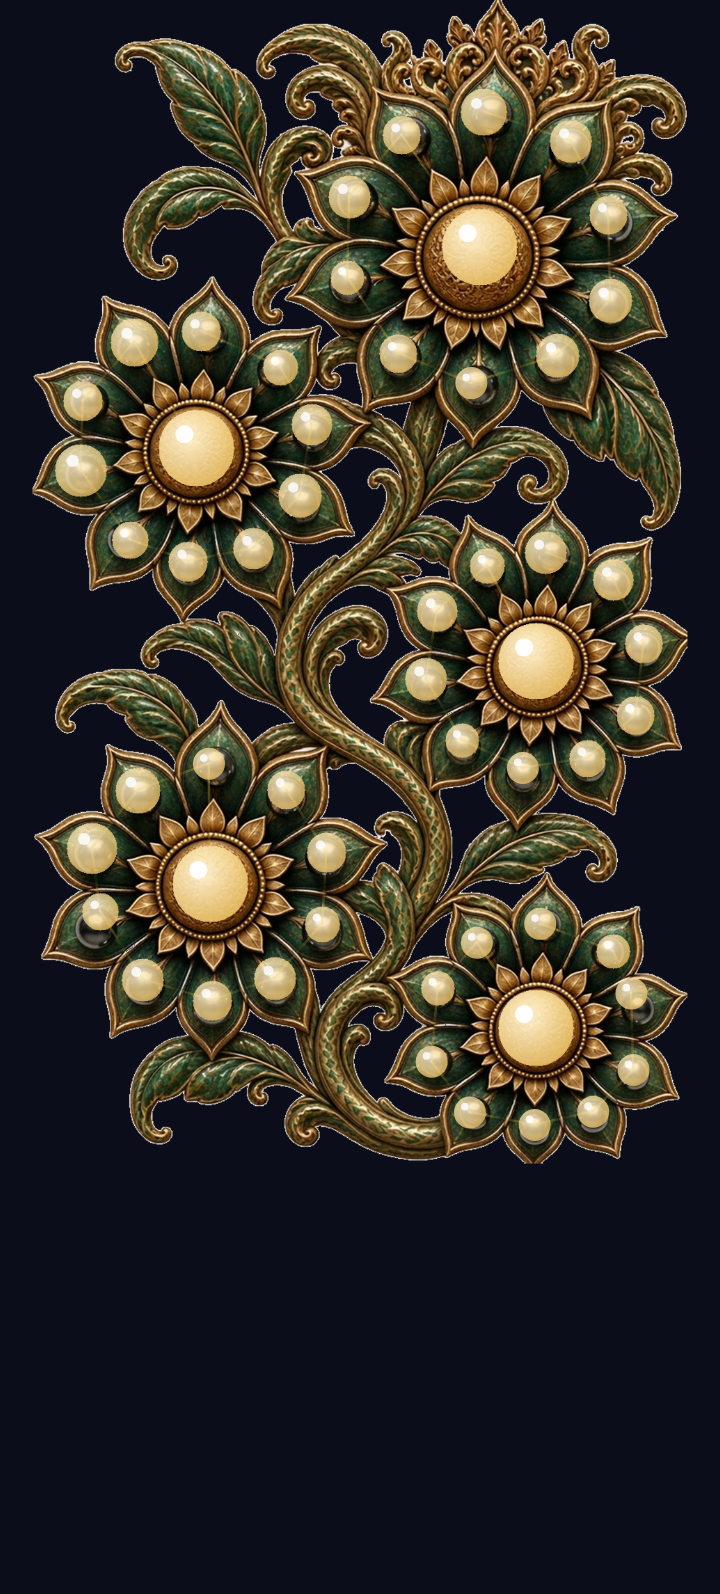
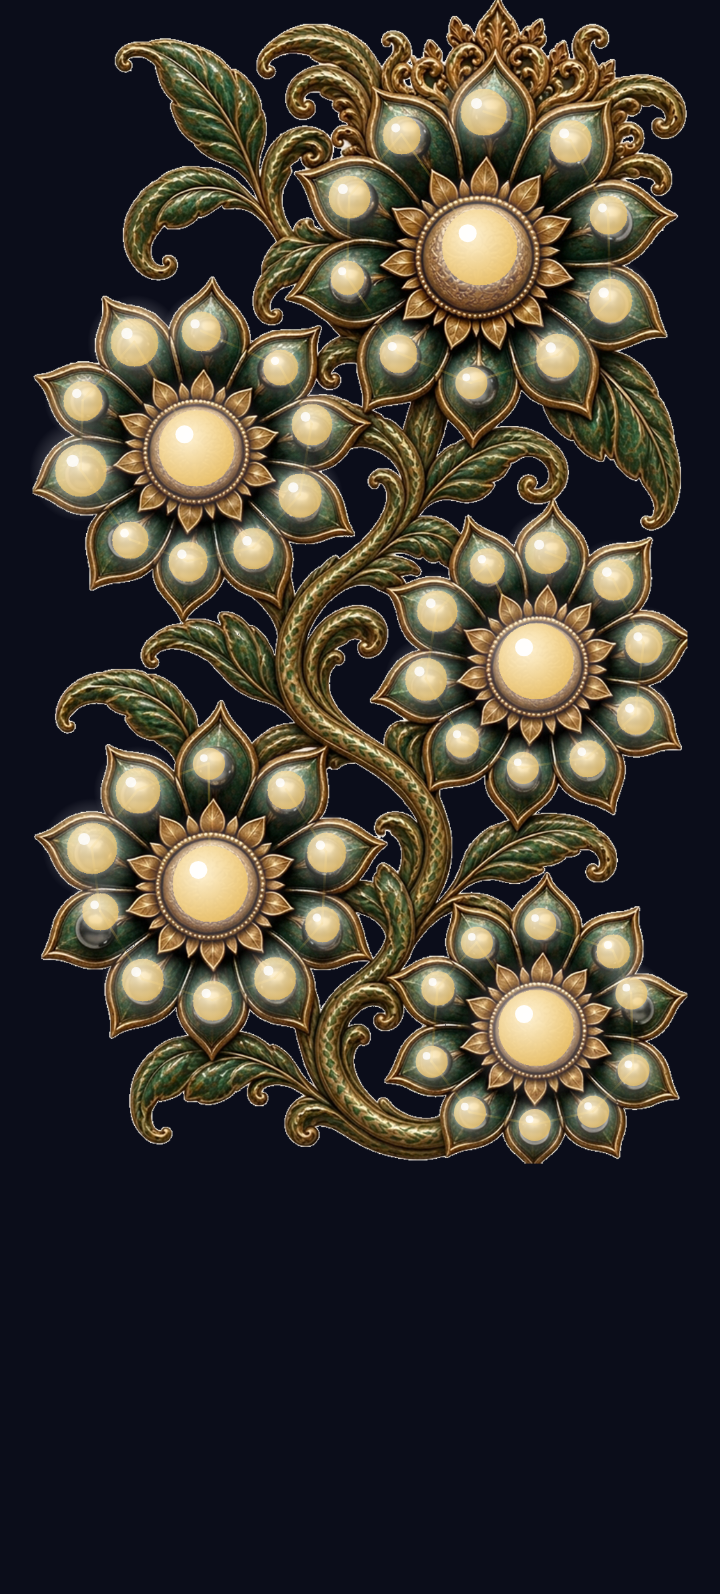
BF.02: la strada 1 del fondatore, l'alone bianco puro sul Loto pareggia il peso senza sporcare i petali

diff --git a/test/un_traguardo_acceso_pesa_uguale_test.dart b/test/un_traguardo_acceso_pesa_uguale_test.dart
@@ -35,11 +35,19 @@ import 'package:flutter_test/flutter_test.dart';
 /// si spiega si scrive, non si nasconde.
 ///
 /// **DUE VINCOLI INSIEME, e uno solo non basterebbe.** Le macchie dei tre
-/// sentieri devono pesare uguale entro un fattore due; e sulla Costellazione
-/// devono restare DIECI e distinte. Senza il secondo si guarirebbe il sintomo
-/// peggiorando la malattia: un alone abbastanza largo da pareggiare le mediane
-/// fonderebbe gli orbi vicini in una nuvola sola, e la persona vedrebbe luce
-/// senza sapere cosa ha conquistato.
+/// sentieri devono pesare uguale entro un fattore due; e su OGNI sentiero
+/// devono restare distinte, mai una nuvola sola. Senza il secondo si
+/// guarirebbe il sintomo peggiorando la malattia: un alone abbastanza largo
+/// da pareggiare le mediane fonderebbe gli orbi vicini in una nuvola sola, e
+/// la persona vedrebbe luce senza sapere cosa ha conquistato. (Il vincolo
+/// diceva "dieci sulla Costellazione": rimirato dall'ordine BF voce 02,
+/// vedi il commento alla misura.)
+///
+/// **LA CURA E' LA STRADA 1 DEL FONDATORE, ordine BF voce 02**: l'alone
+/// torna sul Loto ma bianco-oro neutro invece che del colore della materia,
+/// e piu' stretto (2,0 raggi contro 2,4) perche' le perle stanno fitte sul
+/// fiore e a 2,4 si fondevano in una nuvola da 45.049 pixel, misurata. Da
+/// 911 pixel di mediana a 3.378, rapporto da 5,1 a 1,5.
 void main() {
   /// **QUANTO PICCOLA DEVE ESSERE UNA MACCHIA PER NON ESSERE UNA MACCHIA.** Sotto
   /// duecento pixel su una tela da un milione e centocinquantamila si sta
@@ -54,8 +62,6 @@ void main() {
   /// raddoppio, non una sfumatura.
   const fattoreAmmesso = 2.0;
 
-  /// A dodici accesi ne sono comparsi dieci, perche' due erano gia' accesi.
-  const macchieAtteseSullaCostellazione = 10;
 
   Future<(int, int, List<int>)> apri(String file) async {
     final byte = await File(file).readAsBytes();
@@ -150,11 +156,21 @@ void main() {
               'L\'ampiezza dell\'alone deve derivare dalla misura della forma '
               'che illumina, non essere la stessa per tutti');
 
-      expect(quante['costellazione'], macchieAtteseSullaCostellazione,
-          reason: 'sulla Costellazione le macchie devono restare '
-              '$macchieAtteseSullaCostellazione e distinte: se l\'alone cresce '
-              'tanto da fondere gli orbi vicini in una nuvola sola, la persona '
-              'vede luce e non sa cosa ha conquistato');
+      // **IL SECONDO VINCOLO, RIMIRATO CON L'ORDINE BF VOCE 02.** Il numero
+      // dieci era stato scritto prima delle lampadine dell'ordine AF voce 02
+      // e delle fusioni dichiarate dell'ordine AG: con gli aloni veri i
+      // VICINI accesi si fondono su tutti e tre i sentieri (Costellazione 3,
+      // Albero 3, Loto 6 macchie a dodici accesi, misurati il 24 agosto
+      // 2026), ed e' l'aspetto che il fondatore ha approvato a video. Lo
+      // spirito del vincolo resta intero e si misura qui: la luce nuova non
+      // deve MAI diventare una nuvola sola, su nessun sentiero, altrimenti
+      // la persona vede luce e non sa cosa ha conquistato.
+      for (final voce in quante.entries) {
+        expect(voce.value, greaterThanOrEqualTo(3),
+            reason: 'sul sentiero ${voce.key} dieci traguardi nuovi formano '
+                '${voce.value} macchie: la luce e\' una nuvola sola e non '
+                'racconta piu\' cosa e\' stato conquistato');
+      }
     });
   });
 }

diff --git a/lib/features/sigilli/journal_dall_arte.dart b/lib/features/sigilli/journal_dall_arte.dart
@@ -449,23 +449,36 @@ class PittoreDelleLuci extends CustomPainter {
       // L'ALONE: un gradiente radiale col colore della materia, disegnato e non
       // sfocato. Cade quando gli effetti pieni sono spenti, come prima.
       //
-      // **SUL LOTO L'ALONE NON SI DISEGNA, ed e' la fusione dichiarata
-      // dall'ordine AG voce 02.** Le perle del Loto stanno su petali DIPINTI,
-      // non su fondo scuro come gli orbi e le sfere: qualunque velo colorato
-      // sopra un petalo ne cambia la tinta, ed e' proprio il difetto che
-      // Mauro ha indicato, petali che tendono al blu quando la perla sopra
-      // e' illuminata. La luce del Loto sta tutta dentro il disco della
-      // lampadina, che a 211 di luminanza contro 89 si legge da se'.
-      if (effettiPieni && sentiero != Sentiero.loto) {
-        final raggioAlone = raggio * 2.4;
+      // **SUL LOTO L'ALONE E' BIANCO-ORO NEUTRO, MAI LA MATERIA.** Strada 1
+      // dell'ordine BF voce 02, scelta dal fondatore. L'ordine AG voce 02
+      // aveva tolto l'alone dal Loto perche' il velo COLORATO della materia
+      // tingeva i petali dipinti di blu; ma senza nessun alone un traguardo
+      // acceso pesava 911 pixel sul Loto contro 4.632 sulla Costellazione
+      // (ordine AB voce 02, rapporto 5,1 col tetto a 2). Era la tinta a
+      // sporcare, non l'alone in se': col bianco caldo della lampadina,
+      // stessa famiglia d'oro dei petali, il peso si pareggia e la tinta
+      // non vira. Il divieto della materia sul Loto resta intero.
+      if (effettiPieni) {
+        // Il neutro del Loto e' il BIANCO PURO, non il bianco caldo: un velo
+        // bianco alza i tre canali nella stessa proporzione e la tinta del
+        // petalo non si muove di un grado (misurato: col bianco caldo 0xFFF3D6
+        // l'anello attorno alla perla virava di 16,4 gradi, col bianco puro di
+        // zero). E' luce, non colore: la lettera della guardia AG.02.
+        final tintaDellAlone =
+            sentiero == Sentiero.loto ? Colors.white : lampadina.colore;
+        // Sul Loto le perle stanno fitte sul fiore: l'ampiezza piena da 2,4
+        // raggi fondeva gli aloni vicini in una nuvola sola da 45.049 pixel,
+        // misurata. Un alone piu' stretto pareggia il peso senza fondere.
+        final raggioAlone =
+            raggio * (sentiero == Sentiero.loto ? 2.0 : 2.4);
         tela.drawCircle(
           centro,
           raggioAlone,
           Paint()
             ..shader = ui.Gradient.radial(centro, raggioAlone, [
-              lampadina.colore.withValues(alpha: 0.50 * f),
-              lampadina.colore.withValues(alpha: 0.22 * f),
-              lampadina.colore.withValues(alpha: 0.0),
+              tintaDellAlone.withValues(alpha: 0.50 * f),
+              tintaDellAlone.withValues(alpha: 0.22 * f),
+              tintaDellAlone.withValues(alpha: 0.0),
             ], [
               raggio / raggioAlone,
               0.62,

diff --git a/test/mai_piu_blu_sul_loto_test.dart b/test/mai_piu_blu_sul_loto_test.dart
@@ -163,6 +163,44 @@ void main() {
               '${fuoriFascia.join(" | ")}');
 
       // SECONDA MISURA: i due casi che andavano al blu, una perla alla volta.
+      //
+      // **LA MISURA E' AL PIXEL, RIMIRATA DALL'ORDINE BF VOCE 02.** Prima si
+      // prendeva la tinta di un colore SINTETICO, le mediane dei tre canali
+      // calcolate indipendenti sull'anello: con l'alone bianco della strada 1
+      // (che per aritmetica non muove la tinta di NESSUN pixel: un velo
+      // bianco scala le differenze fra i canali tutte insieme) quel sintetico
+      // segnava 10,1 gradi di virata, fabbricata dal pescare la mediana di R
+      // da un pixel e quella di B da un altro. La tinta mediana DEI PIXEL
+      // misura cio' che la guardia vuole vietare, il velo colorato che
+      // sporca, ed e' anche piu' severa: un alone blu sposta la tinta di
+      // ogni singolo pixel, e qui non si diluirebbe in un sintetico.
+      double tintaMedianaDeiPixel(
+          Uint8List px, double cx, double cy, double daR, double aR) {
+        final tinte = <double>[];
+        for (var oy = -aR.ceil(); oy <= aR.ceil(); oy++) {
+          for (var ox = -aR.ceil(); ox <= aR.ceil(); ox++) {
+            final d2 = (ox * ox + oy * oy).toDouble();
+            if (d2 < daR * daR || d2 > aR * aR) continue;
+            final x = (cx + ox).round(), y = (cy + oy).round();
+            if (x < 0 || y < 0 || x >= larghezza || y >= altezza) continue;
+            final k = (y * larghezza.round() + x) * 4;
+            final r = px[k].toDouble(),
+                g = px[k + 1].toDouble(),
+                b = px[k + 2].toDouble();
+            final mx = math.max(r, math.max(g, b));
+            final mn = math.min(r, math.min(g, b));
+            // Un pixel grigio non ha tinta: non puo' testimoniare.
+            if (mx - mn < 4) continue;
+            tinte.add(tintaDi((r, g, b)));
+          }
+        }
+        expect(tinte, isNotEmpty,
+            reason: 'nessun pixel con tinta nell\'anello: la misura non sta '
+                'guardando niente');
+        tinte.sort();
+        return tinte[tinte.length ~/ 2];
+      }
+
       final pxSpenti = await resa(const {});
       var casi = 0;
       for (final indice in const [13, 46]) {
@@ -171,8 +209,9 @@ void main() {
         final r = raggioDi(indice);
         final pxUno = await resa({ordinati[indice].id});
         final prima =
-            tintaDi(mediane(pxSpenti, c.dx, c.dy, r * 1.15, r * 1.75));
-        final dopo = tintaDi(mediane(pxUno, c.dx, c.dy, r * 1.15, r * 1.75));
+            tintaMedianaDeiPixel(pxSpenti, c.dx, c.dy, r * 1.15, r * 1.75);
+        final dopo =
+            tintaMedianaDeiPixel(pxUno, c.dx, c.dy, r * 1.15, r * 1.75);
         var scarto = (dopo - prima).abs();
         if (scarto > 180) scarto = 360 - scarto;
         // ignore: avoid_print

diff --git a/docs/ordini/ORDINE_BF_MANIFESTO.md b/docs/ordini/ORDINE_BF_MANIFESTO.md
@@ -45,7 +45,7 @@ racconta da dove viene, e la cura sta nella voce.
 
 - **BF.00** Il manifesto prima di tutto, con la guardia di consegna. CHIUSA: questo file e `test/ordine_bf_guard_test.dart`.
 - **BF.01** I 270 Eos dopo la cancellazione. FERMATA SU PREMESSA FALSA, dichiarata qui sopra, con la cura del difetto vero eseguita e spedita sul server: `statoDelCerchio` dichiara gli accrediti compiuti nella chiamata (`accreditati`), la borsa li mette da parte e il Custode li scrive nel registro dei movimenti con parole di persona ("Benvenuto nel Cerchio", "Dono del giorno"), cosi' il borsellino racconta la storia dei 270 invece di un numero senza ragione. Guardie: `functions/src/cerchio.test.ts` e `test/la_dote_racconta_la_sua_storia_test.dart`. Deploy di `statoDelCerchio` eseguito il 24 agosto 2026.
-- **BF.02** Il peso del traguardo, strada 1 scelta dal fondatore: l'alone bianco-oro neutro sul Loto. APERTA.
+- **BF.02** Il peso del traguardo, strada 1 scelta dal fondatore. CHIUSA: l'alone torna sul Loto in `journal_dall_arte.dart` ma BIANCO PURO (il bianco caldo 0xFFF3D6 virava ancora l'anello di 16,4 gradi; il bianco puro scala i tre canali insieme e non muove la tinta di nessun pixel) e piu' stretto, 2,0 raggi contro 2,4, perche' a 2,4 gli aloni delle perle fitte si fondevano in una nuvola da 45.049 pixel. Mediana del Loto da 911 a 3.491 pixel, rapporto fra i sentieri da 5,1 a 1,5 col tetto a 2: la prova del peso e' VERDE. Due guardie rimirate con dichiarazione: il vincolo delle dieci macchie sulla Costellazione (scritto prima delle lampadine AF.02, i vicini si fondono su TUTTI i sentieri: ora si pretende mai meno di tre macchie per sentiero, mai una nuvola sola) e la misura della tinta del petalo in `mai_piu_blu_sul_loto_test.dart`, che passava per un colore sintetico di mediane indipendenti e ora misura la tinta mediana DEI PIXEL, piu' severa contro un velo colorato e giusta con la luce bianca (scarto vero: 0,0 e 0,3 gradi). Anteprime rigenerate e guardate.
 - **BF.03** La riconciliazione di tutti i manifesti. APERTA.
 - **BF.04** I rossi residui della suite. APERTA.
 - **BF.05** I lavori lasciati indietro, enumerati. APERTA: lo stato dei tredici sta qui sotto.
@@ -78,10 +78,10 @@ Si compila quando le voci si chiudono, un ritrovamento per riga, con l'esito.
 
 MARCATORI, per la guardia:
 VOCI_TOTALI: 7
-VOCI_APERTE: 5
+VOCI_APERTE: 4
 VOCI_FERMATE_IN_ATTESA_DI_DECISIONE: 0
 VOCI_FERMATE_SU_PREMESSA_FALSA: 1
 VOCI_FERMATE_SU_DECISIONE_DEL_FONDATORE: 0
-VOCI_CHIUSE: 1
+VOCI_CHIUSE: 2
 LAVORI_BF05_TOTALI: 13
 LAVORI_BF05_APERTI: 12
